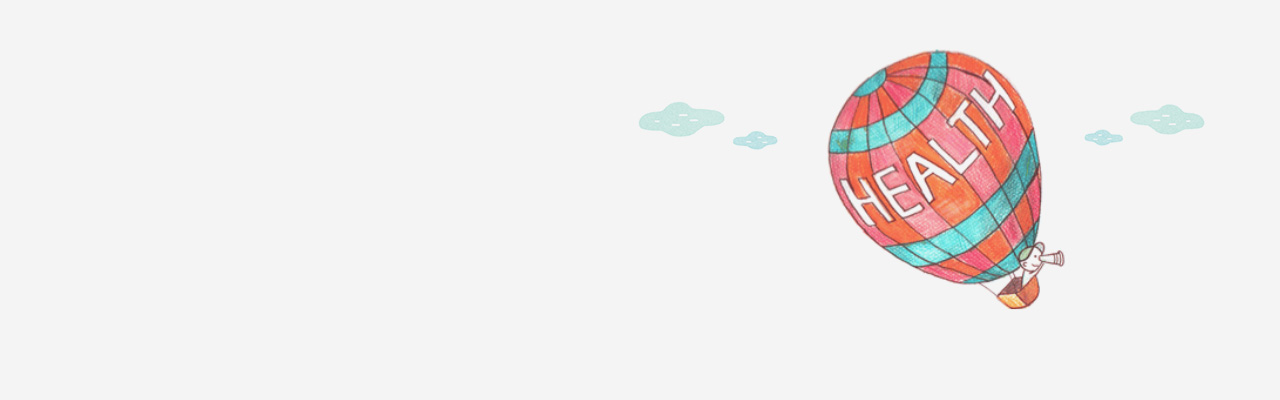
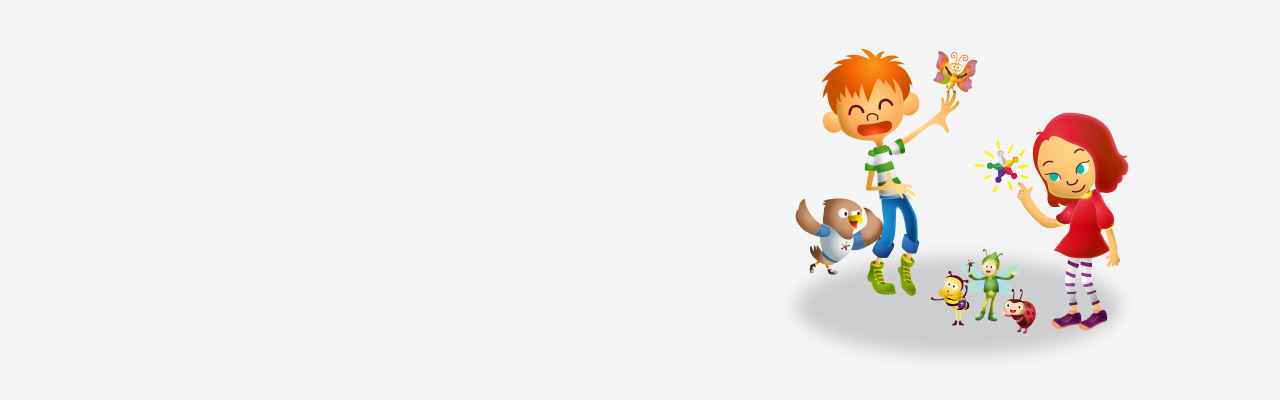
뉴트리 키즈란?

Changed region(s): [[0.5, 0.12, 0.9375, 0.9]]

diff --git a/_ui/responsive/theme-blue/css/akl-brand_hw.css b/_ui/responsive/theme-blue/css/akl-brand_hw.css
@@ -188,7 +188,7 @@ dl.box-txt-list dd + dt {margin-top:30px;}
 .brand .box-bnr-10 .txt-wrap strong {font-size:16px;line-height:18px;letter-spacing:0;}
 .brand .box-bnr-10 .txt-wrap span {display:block;}
 .brand .box-bnr-10 .txt-wrap p {margin-top:5px;font-size:14px;color:#56565a;}
-.brand .box-bnr-10 .txt-wrap p.txt-italic {font-size:13px;color:#808285;}
+.brand .box-bnr-10 .txt-wrap p.txt-italic {font-size:13px;color:#808285;padding:0 0 2px 5px;}
 .brand .box-bnr-10 .txt-wrap .t1 {display:block;line-height:48px;font-size:40px;margin-bottom:15px;}
 .brand .box-bnr-11 .txt-wrap span {display:block;}
 .brand .box-bnr-11 .txt-wrap strong {display:block;line-height:48px;font-size:40px;margin-bottom:15px;}
@@ -208,6 +208,12 @@ dl.box-txt-list dd + dt {margin-top:30px;}
 .brand .box-bnr-14 .txt-wrap strong {color:#fff;}
 .brand .box-bnr-14 .txt-wrap strong span {display:block;}
 .brand .box-bnr-14 .txt-wrap p {margin:5px 0 0;color:#fff;}
+.brand .box-bnr-15 .txt-wrap strong {font-size:16px;line-height:18px;letter-spacing:0;}
+.brand .box-bnr-15 .txt-wrap span {display:block;}
+.brand .box-bnr-15 .txt-wrap p {margin-top:5px;font-size:14px;color:#56565a;}
+.brand .box-bnr-15 .txt-wrap p.txt-italic {font-size:13px;color:#808285;padding:0 0 2px 5px;}
+.brand .box-bnr-15 .txt-wrap .t1 {display:block;line-height:48px;font-size:40px;margin-bottom:15px;}
+
 
 /* 암웨이 사업 */
 [class*="img-text-row-box-type"]{margin-top:40px;}
@@ -373,12 +379,7 @@ dl.box-txt-list dd + dt {margin-top:30px;}
 /*건강지킴이*/
 .btn-health-area {margin-top:70px;padding-top:11px;background:url(../images/akl_brand/nutrilite/bg_health01.jpg) no-repeat 0 0; text-align:right;}
 .btn-health-area a {display:inline-block;}
-.br-pro dl {width:auto;padding: 80px 0 0 100px;}
-.br-pro dl dd {padding-top:5px;}
-.br-pro dl dd span {font-size:16px;}
-.brand .br-pro dl dd p {margin:10px 0 0;font-size:14px;}
-.brand .br-pro dl dd p a {letter-spacing:0;font-weight:500;}
-.brand .br-pro .woo-btn {padding: 20px 0 0 100px;}
+
 
 .brand .outer-border-bottom + .br-btn-tab {margin-top:-10px;}
 .brand .br-btn-tab .tabs-toggles {border:none;}
@@ -413,6 +414,9 @@ dl.box-txt-list dd + dt {margin-top:30px;}
 	.brand .box-bnr-13 .txt-wrap p span {display:inline;}
 	.brand .img-bnr-bg.type3 .tablet {display:block;}
 	.brand .img-bnr-bg.type3 .pc, .brand .img-bnr-bg.type3 .mob  {display:none;}
+
+	.brand .box-bnr-10 .txt-wrap {padding-left:50px;}
+	.brand .box-bnr-15 .txt-wrap {padding-left:50px;}
 }
 
 
@@ -428,7 +432,7 @@ dl.box-txt-list dd + dt {margin-top:30px;}
 	.brand [class*="box-bnr"] .woo-btn a {font-size:16px;height:45px;padding:9px 30px 8px;}
 	.brand .box-bnr-03 .txt-wrap {top:25px;left:20px;transform:none;text-align:left;width:90%;}
 	.brand .box-bnr-02 .txt-wrap p, .brand .box-bnr-03 .txt-wrap p, .brand .box-bnr-04 .txt-wrap p, .brand .box-bnr-07 .txt-wrap p, .brand .box-bnr-09 .txt-wrap p, .brand .box-bnr-10 .txt-wrap p, .brand .box-bnr-12 .txt-wrap p,
-	 .brand .box-bnr-14 .txt-wrap p, .brand .box-bnr-13 .txt-wrap p{display:block;}
+	 .brand .box-bnr-14 .txt-wrap p, .brand .box-bnr-13 .txt-wrap p, .brand .box-bnr-15 .txt-wrap p{display:block;}
 	.brand .box-bnr-03 .txt-wrap p span {display:inline;}
 	.brand .box-bnr-04 .txt-wrap strong {color:#fff;}
 	.brand .box-bnr-04 .txt-wrap span {display:block;}
@@ -456,6 +460,9 @@ dl.box-txt-list dd + dt {margin-top:30px;}
 	.brand .box-bnr-13 .txt-wrap {padding:0 15px 0;text-align:left;}
 	.brand .box-bnr-13 .txt-wrap .txt-right {margin: 0 0% 0 38%;}
 	.brand .box-bnr-14 .txt-wrap p {margin-top:15px;font-size:16px;}
+	.brand .box-bnr-15 {padding:20px 20px 200px;background:#f4f4f4 url(../images/akl_brand/nutrilite/img_bnr_health_mob02.jpg) no-repeat center bottom;background-size: 375px auto;}
+	.brand .box-bnr-15 .txt-wrap {position:static;text-align:left;transform:initial;}
+	.brand .box-bnr-15 .woo-btn {text-align:center;}
 	.img-bnr {margin:20px 0 35px;}
 	.img-bnr-bg {margin:20px 0 35px;padding:30px 10px 15px;}
 	.img-bnr-bg img.mob {display:inline-block !important;max-width:305px;width:100%;}
@@ -614,9 +621,6 @@ dl.box-txt-list dd + dt {margin-top:30px;}
 	.biz-slide-wrap {margin:40px -10px 0;padding:0 30px;}
 	.biz-slide-wrap .owl-nav .owl-next {right:0;background-position: 10px 50% !important;}
 	.biz-slide-wrap .owl-nav .owl-prev {left:0;background-position: 10px 50% !important;}
-
-	.br-pro dl {width:auto;padding:5px 25px 0 25px;}
-	.brand .br-pro .woo-btn {padding: 20px 25px 0 25px;}
 
 }
 

diff --git a/_ui/responsive/html/brand/B20168.html b/_ui/responsive/html/brand/B20168.html
@@ -147,22 +147,22 @@
 				<p class="mgt20">NQ는 <strong class="title-txt03">한국영양학회와 공동으로 개발한 국내 최초의 어린이 영양지수</strong>입니다.<br />최근 식품의약품안전처의 연구용역사업으로 어린이 영양지수는 업데이트 되었습니다. 건강지킴이 참여 아동들은 최근에 업데이트된 22문항의 NQ조사지를 작성한 결과를 과학적으로 분석한 후 아동의 현재 식습관과 관련된 문제점들을 진단해 드립니다.</p>
 				<p class="mgt20">특히, 뉴트리라이트 건강지킴이 프로그램은 그 교육효과와 체계적인 시스템을 인정받아 <strong class="titl<hr />e-txt03">교육부</strong>로부터 <strong class="title-txt03">기업의 영양교육분야 최초 공식 교육기부기관으로 인증</strong>을 받았습니다. <br />또한 어린이 건강에 지속적으로 기여한 공로를 인정받아 외국계 기업 중 유일하게 <strong class="title-txt03">대한민국 교육기부대상 교육부 장관상</strong>을 수여하였습니다.</p>
 				<p class="mgt20">앞으로도 아동의 건강한 성장을 진정으로 기원하는 뉴트리라이트 건강지킴이 활동은 계속될 것입니다.</p>
-
-
+				
 
 				<section class="full-component mgt60">
-					<div class="woo-top br-pro">
-						<dl>
-							<dt>초등학교 신청하기</dt>
-							<dd>
-								<span>뉴트리라이트 건강지킴이 프로그램은 초등학교를 중심으로 진행되고 있습니다.</span>
-								<p>현재 서울과 경기도 지역을 비롯하여 전국 주요 광역시에서도 건강지킴이 프로그램을 만나보실 수 있습니다.<br />교육기부 사이트 <a href="https://www.teachforkorea.go.kr" target="_blank" title="교육기부 새창열림">www.teachforkorea.go.kr</a>를 통해 1년에 두 차례 접수를 받고 있습니다. <br />접수는 2월과 8월중 이루어지며 세부 일정은 조금씩 변동될 수 있습니다.</p>
-							</dd>
-						</dl>
-						<div class="woo-btn"><a href="https://www.teachforkorea.go.kr/donation/neo_programs/?step=step3l&step_v=s_list&DM=D&DV=A0::B0::C0::D0::F1::F2&ord=&rec=&sel=&n=20847" class="bt-akl-blue" target="_blank" title="교육기부 새창열림">신청하기</a></div>
+					<div class="box-bnr-15">
+						<img src="/_ui/responsive/theme-blue/images/akl_brand/nutrilite/img_bnr_health02.jpg" alt="" class="pc">
+						<div class="txt-wrap">
+							<strong class="t1">초등학교 신청하기</strong>
+							<p><strong>뉴트리라이트 건강지킴이 프로그램은 초등학교를 중심으로 진행되고 있습니다.</strong></p>
+							<p>현재 서울과 경기도 지역을 비롯하여 전국 주요 광역시에서도 건강지킴이 프로그램을 만나보실 수 있습니다.<br />교육기부 사이트 <a href="https://www.teachforkorea.go.kr" target="_blank" title="교육기부 새창열림">www.teachforkorea.go.kr</a>를 통해 1년에 두 차례 접수를 받고 있습니다. <br />접수는 2월과 8월중 이루어지며 세부 일정은 조금씩 변동될 수 있습니다.</p>
+							<div class="woo-btn"><a href="https://www.teachforkorea.go.kr/donation/neo_programs/?step=step3l&amp;step_v=s_list&amp;DM=D&amp;DV=A0::B0::C0::D0::F1::F2&amp;ord=&amp;rec=&amp;sel=&amp;n=20847" class="bt-akl-blue" target="_blank" title="교육기부 새창열림">신청하기</a></div>
+						</div>
 					</div>
 				</section>
 
+
+			
 				<div class="btn-health-area">
 					<a href="http://down.amway.co.kr/home/fileupload2/NQ_final.pdf" target="_blank" title="건강지킴이 신문 새창열기"><img src="/_ui/responsive/theme-blue/images/akl_brand/nutrilite/btn_health01.jpg" alt="건강지킴이 신문보기"/></a>
 					<a href="https://www.teachforkorea.go.kr" target="_blank" title="교육기부 새창열기"><img src="/_ui/responsive/theme-blue/images/akl_brand/nutrilite/btn_health02.jpg" alt="교육기부"/></a>
